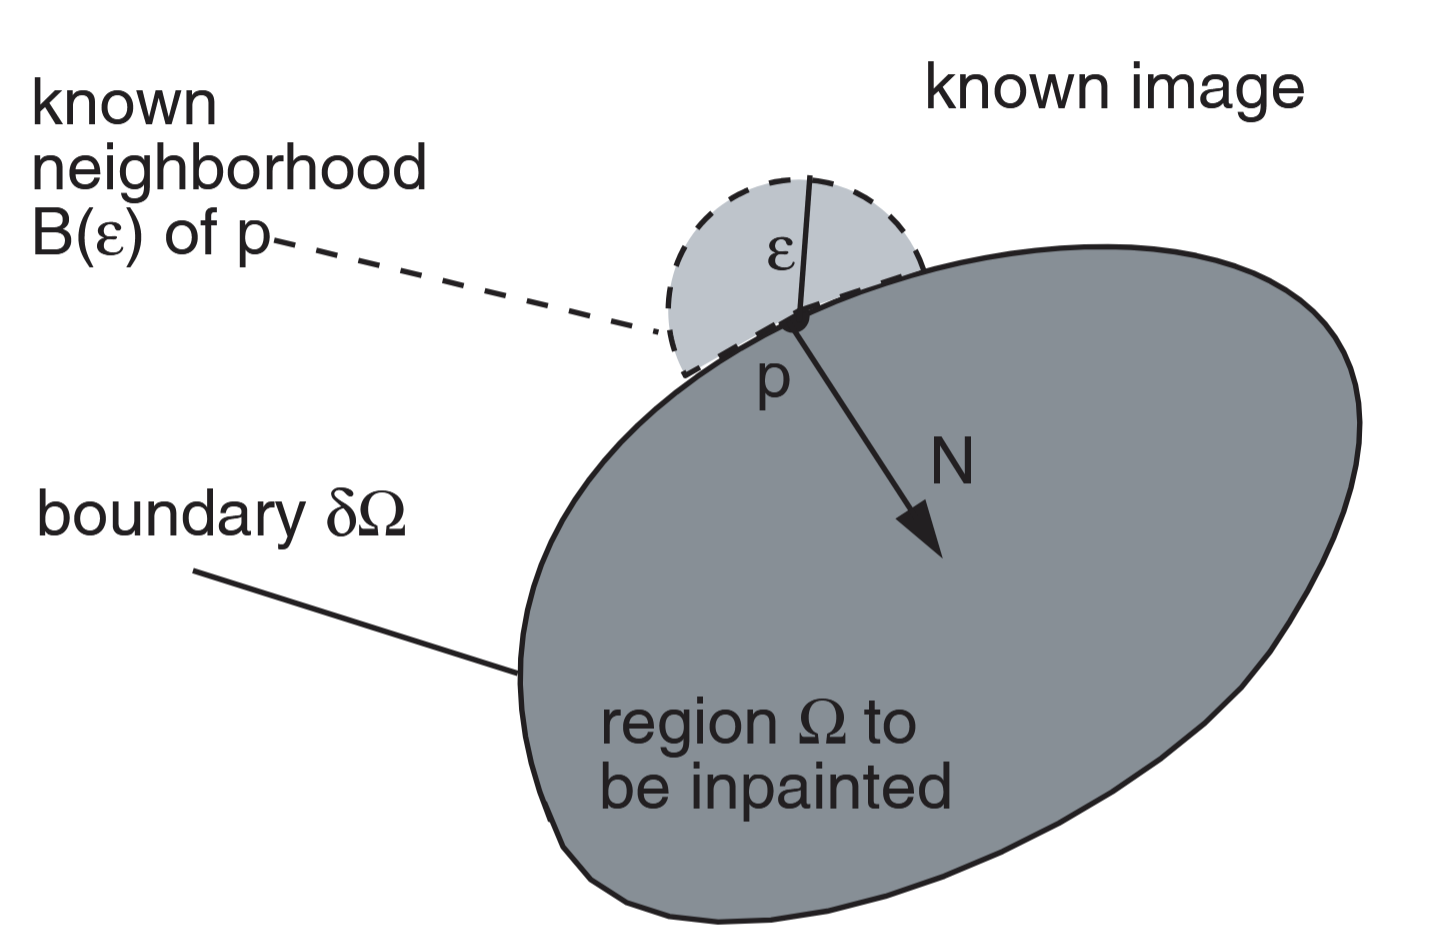
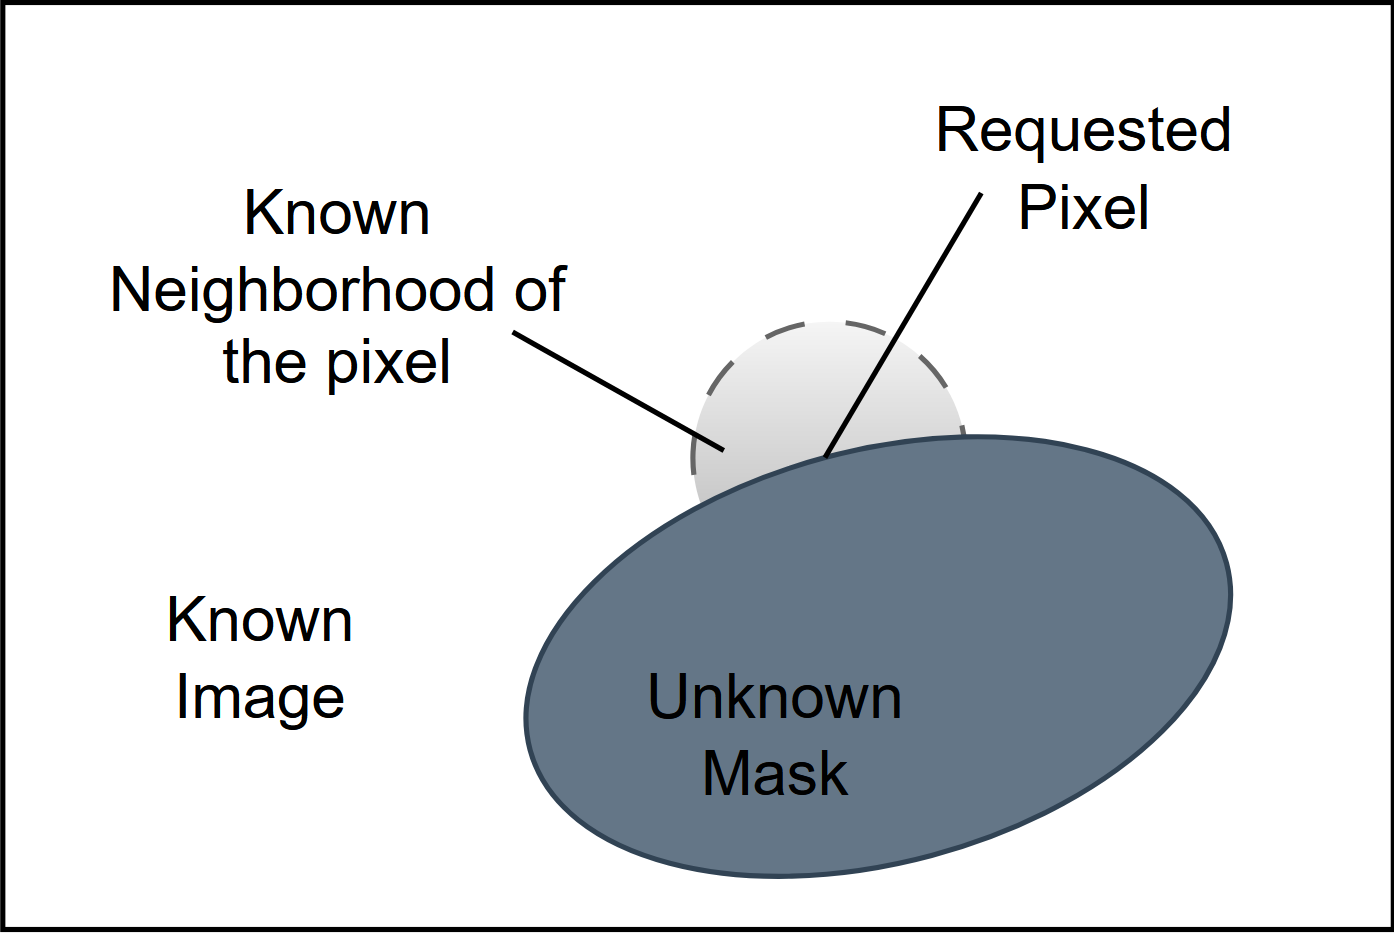
Further Improvements to the Fundamentals Chapter

diff --git a/Thesis/documents/HgbThesisEN/chapters/fundamentals.tex b/Thesis/documents/HgbThesisEN/chapters/fundamentals.tex
@@ -29,18 +29,18 @@ AR is uniquely flawed in that regard due to it enhancing the surrounding environ
 oftentimes allowing objects to be placed freely in the environment and therefore cluttered environments to the space constraints of the user themselves.
 
 \section{Diminished Reality}
-DR was first introduced as a subsection of MR by Mann \cite{Mann2002}, often also called Mediated Reality (see \cite{grasset2003interactive}, \cite{mann2002mediated} and \cite{PoelmanAkmanLukotsch2012}), due to the concept of software mediating both the physical and virtual objects the user is allowed to see.
+DR was first introduced as a subsection of MR by Mann \cite{Mann2002}, often also called Mediated Reality (see \cite{mann2002mediated}, \cite{grasset2003interactive} and \cite{PoelmanAkmanLukotsch2012}), due to the concept of software mediating both the physical and virtual objects the user is allowed to see.
 DR aims to remove or diminish real world objects from the perception of the user by hiding them from their view. This can be accomplished by either from completely hiding the objects or making them slightly transparent, so the user can still recognize the object when looking directly at it,
 however perceives its presence less when looking at different objects \cite{ChengYiFei2022TUDR}.
 
-Many experiments have been done using DR already. Ranging from visually removing the front vehicle, which is being overtaken from a drivers viewport for safety improvements during overtaking \cite{RameauFrancois2016ARAR} to interior design previews and furniture placement previews, as seen in \cite{SiltanenSanni2017Drfa}.\\
+There have been many experiments using DR already. Ranging from visually removing the front vehicle, which is being overtaken from a drivers viewport for safety improvements during overtaking \cite{RameauFrancois2016ARAR} to interior design previews and furniture placement previews, as seen in \cite{SiltanenSanni2017Drfa}.\\
 These works use similar concepts to the one implemented for this thesis, working with inpainting algorithms to hide physical objects for the users benefit, be it decision making for interior designs, increasing driver safety during overtaking, or in the case of this thesis, in reducing distractions caused by clutter.
 
-There have also been user studies to experiment and find out which effects are the most comfortable and effective for users, ranging from simply reducing the opacity of objects, to outlining, blurring or desaturating the unwanted objects. According to the experiments done in \cite{ChengYiFei2022TUDR} opacity reduction and outlining provides the best results.
+There have also been user studies to experiment and find out which effects are the most comfortable and effective for users, ranging from simply reducing the opacity of objects, to outlining, blurring or desaturating the unwanted objects. According to the experiments in \cite{ChengYiFei2022TUDR} opacity reduction and outlining provides the best results.
 This can be interpreted to mean, the less a user notices objects the less they are distracted by them.
 In addition another experiment measured how users react to being able to decide which objects should be hidden compared to every object being detected and hidden automatically. The findings of this experiment have shown a preference for the users to decide for themselves, which objects should be hidden and which should stay \cite{ChengYiFei2022TUDR}.
 
-These findings were taken into account during planning of the solution developed in the following chapters, as to how objects should be hidden and allowing for the user to select the areas and therefore the objects they want to hide for themselves instead of the software deciding.
+These findings were taken into account during planning of the implementation developed in the following chapters, as to how objects should be hidden and allowing for the user to select the areas and therefore the objects they want to hide for themselves instead of the software deciding.
 
 \section{Inpainting}
 \label{cha:Inpainting}
@@ -48,7 +48,7 @@ These findings were taken into account during planning of the solution developed
 Whilst DR itself is a great concept for the use case of reducing clutter, the problem remains of what to overlay over the objects to hide them. A single color block would prove for the easiest solution, but it would ruin the believability of the scene for the user and could prove to be even more distracting than the objects which were in the covered area beforehand.
 Therefore this overlay needs to be filled with a plausible background. Inpainting provides a good solution to fill these regions of the viewport and create believable overlays.
 
-\subsection{Definition}
+\subsubsection{Definition}
 Image inpainting is based on the concept of recovering and completing missing regions in an image or removing objects in it. This concept has been around for many centuries, all the way back to the Renaissance, having been used in image restoration or removing damage caused by deterioration \cite{gillette2006image}.
 In recent years it has gained more popularity due to the improvement of image processing methodologies and the gradual adoption of digital image editing. To automate the inpainting process, several methods have been developed to create such an effect on an area of the users choosing without any further input. These range from 
 static sequential algorithms over convolutional neural network (CNN) based approaches, using neural networks with automatic deep learning up to Generative adversarial network (GAN) based solutions, which train specialized inpainting models using a large number of provided images \cite{ElharroussOmar2020IIAR}.
@@ -66,7 +66,7 @@ Therefore there are several methods specifically for the use in real-time inpain
   \end{center}
 \end{figure}
 \subsection{Evaluated inpainting methodologies}
-As there are many different methods currently available regarding inpainting, analyzing all of them would require a lot of time and be outdated quickly. Therefore, only a few select candidates which promise sufficient performance for DR are being looked at in detail to provide an overview.
+As there are many different methods currently available regarding inpainting, analyzing all of them would require a lot of time and be outdated quickly. Therefore, only a few select candidates which seem promising for DR are being looked at in detail to provide an overview.
 
 From gaining an understanding, which categories correlate to certain desired benefits, readers may get a overview of how other methodologies from the same category might perform. Of these methodologies, the following have been analyzed:
 
@@ -79,12 +79,11 @@ The algorithm works by creating an image smoothness estimator, which estimates t
 \begin{figure}[hbt!]
   \begin{center}
     \includegraphics[width=0.5\textwidth]{FastMarching.png}
-    \caption{Taken from \cite{TeleaFastMarching2004}; Concept of the Fast-Marching Inpainting}
+    \caption{Concept of the Fast-Marching Inpainting}
     \label{fig:fastMarching}
   \end{center}
 \end{figure}
 
-\b{TODO SG create graphic for FMM as example with drawio and explain the concept before going into mathematics}
 The mathematical formula for the calculation of a single pixels value can be boiled down to this:
 
 \[I(p) = \dfrac{\sum_{q \in B\epsilon(p)} w(p, q)[I(q) + \Delta I(q)(p-q)]}{\sum_{q \in B\epsilon(p)} w(p, q)}\]\\
@@ -146,8 +145,9 @@ To support color, the isophote vector, used for the priority calculation, is com
 
 \subsubsection{Exemplar-Based Image Inpainting with modified priorities}
 This method was first proposed 2015 by Deng, see \cite{DengLiang-Jian2015EIIU}.\\
-For this method, many approaches are similar to the nonlocal texture matching, see \ref{cha:NonlocalTexture}. It was chosen as an additional method, as it was shown to be more performant in the benchmarks in \cite{DingRam2019}, although the results were apparently slightly worse.
-Therefore these two algorithms are used as a comparison of such exemplar-based inpainting algorithms compared to other methodologies.
+For this method, many approaches are similar to the non-local texture matching, see \ref{cha:NonlocalTexture}. It was chosen as an additional method, as it was shown to be more performant in the benchmarks in \cite{DingRam2019}, although the results were apparently slightly worse.
+
+Such exemplar-based algorithms put the focus on the surrounding area of the target pixels, therefore reducing the search area for canidate pixel patches marginally and improving the performance, albeit at a potential loss of quality.
 
 Compared to the approach of the prior chapter, the priority function is overhauled to the following:
 
@@ -169,10 +169,10 @@ After finding the patch with the highest similarity, this patch is used to fill 
 This should therefore reduce the computational complexity, reducing the runtime of the process. In return this will cause the method to be more error prone and for the output to potentially be of lower quality.
 
 \subsubsection{Large Mask Inpainting with Fourier Convolutions}
-Moving away from algorithmic methods, many methods also use trained inpainting networks to provide high quality results.
+Moving away from algorithmic methods, many modern methods also use trained inpainting networks to provide high quality results.
 Whilst using inpainting models, might seem slower compared to algorithmic models, most of them provide higher quality images.
 
-One of those networks is the large mask inpainting (LaMa) network, using Fourier Convolutions to inpaint large masks effectively.
+One of those networks is the Large Mask (LaMa) inpainting network, using Fourier Convolutions to inpaint large masks effectively.
 Whenever large areas need to be filled using inpainting, the global context of images needs to be considered. The Fast Fourier Convolution (FFC), first introduced in 2020 by Chi, see \cite{Chi2020FastFC}, is a operator, which allows the usage of global context in early layers of the inpainting pipeline.
 It manages this by splitting up in a local and a global branch, evaluating those two branches before merging the results back together.
 
@@ -181,7 +181,7 @@ As networks are often trained on images with lower resolutions, it is very commo
 \begin{figure}[htb!]
   \begin{center}
     \includegraphics[width=1\textwidth]{LaMa.PNG}
-    \caption{Cited from \cite{SuvorovRoman2022RLMI}, the architecture of the LaMa model and how it was tested, using training-time mask generation}
+    \caption{Taken from \cite{SuvorovRoman2022RLMI}, the architecture of the LaMa model}
     \label{fig:LaMa}
   \end{center}
 \end{figure}

diff --git a/Thesis/documents/HgbThesisEN/chapters/introduction.tex b/Thesis/documents/HgbThesisEN/chapters/introduction.tex
@@ -19,14 +19,6 @@ To achieve this, the visual clutter from the viewport is intentionally drawn ove
 \section{Motivation}
 Clutter is an ever present phenomenon in our daily lives. It is still rather difficult to clearly automatically detect visual clutter, as there is still a lack of clear understanding, which factors, features and attributes in objects are relevant and affect a users attention span negatively \cite{RosenholtzRuth2007Mvc}. It has been shown through multiple experiments and studies that reducing visual distractions such as clutter improves a persons ability to focus and keep a longer attention span, see for example \cite{MaXiaojin2023VDSL}
 
-\begin{figure}[htb!]
-  \begin{center}
-    \includegraphics[width=0.5\textwidth]{clutteredChess.png}
-    \caption{\textbf{TODO SG; Add after UseCase Example done;} An example of virtual objects enhancing an already cluttered environment and therefore worsening the existing visual clutter}
-    \label{fig:clutteredChess}
-  \end{center}
-\end{figure}
-
 Over the last years there have been several solutions for reducing distractions caused by real world interference, most of them for sound.
 Whilst there are a lot of solutions available, regarding distractions caused by sound, like noise cancellation headphones, at the current moment there is very little awareness about the distraction caused through visual noise, not to mention a severe lack of universal solutions for it. During an experiment on which visual factors might impact focus, next to lighting and motions, information overload as well as distractions caused by objects such as food, animals, large textures or bright spots have been pointed out by the participants \cite{HongJunlei2024VNCE}.
 
@@ -36,6 +28,14 @@ Most publications put the focus on different components of the system like the d
 
 The main goal of this analysis is therefore to provide an easy to reference comparison of the different methodologies to be compared in terms of both performance and quality in a real time setting. Through this analysis, developers can make an educated choice on which methodology to use for their implementations, be it high fidelity in use cases like PC-powered AR systems or low energy, low performance systems, more suited for mobile devices, like mobile phones or standalone Mixed-Reality HMDs.
 In addition, the program built for this evaluation should be easy to extend for newer inpainting methods whilst staying easy to integrate into existing applications to allow for a quick and efficient integration to provide the clutter removal functionality to other AR projects.
+
+\begin{figure}[htb!]
+  \begin{center}
+    \includegraphics[width=0.5\textwidth]{clutteredChess.png}
+    \caption{\textbf{TODO SG; Add after UseCase Example done;} An example of virtual objects enhancing an already cluttered environment and therefore worsening the existing visual clutter}
+    \label{fig:clutteredChess}
+  \end{center}
+\end{figure}
 
 \section{Overview}
 
